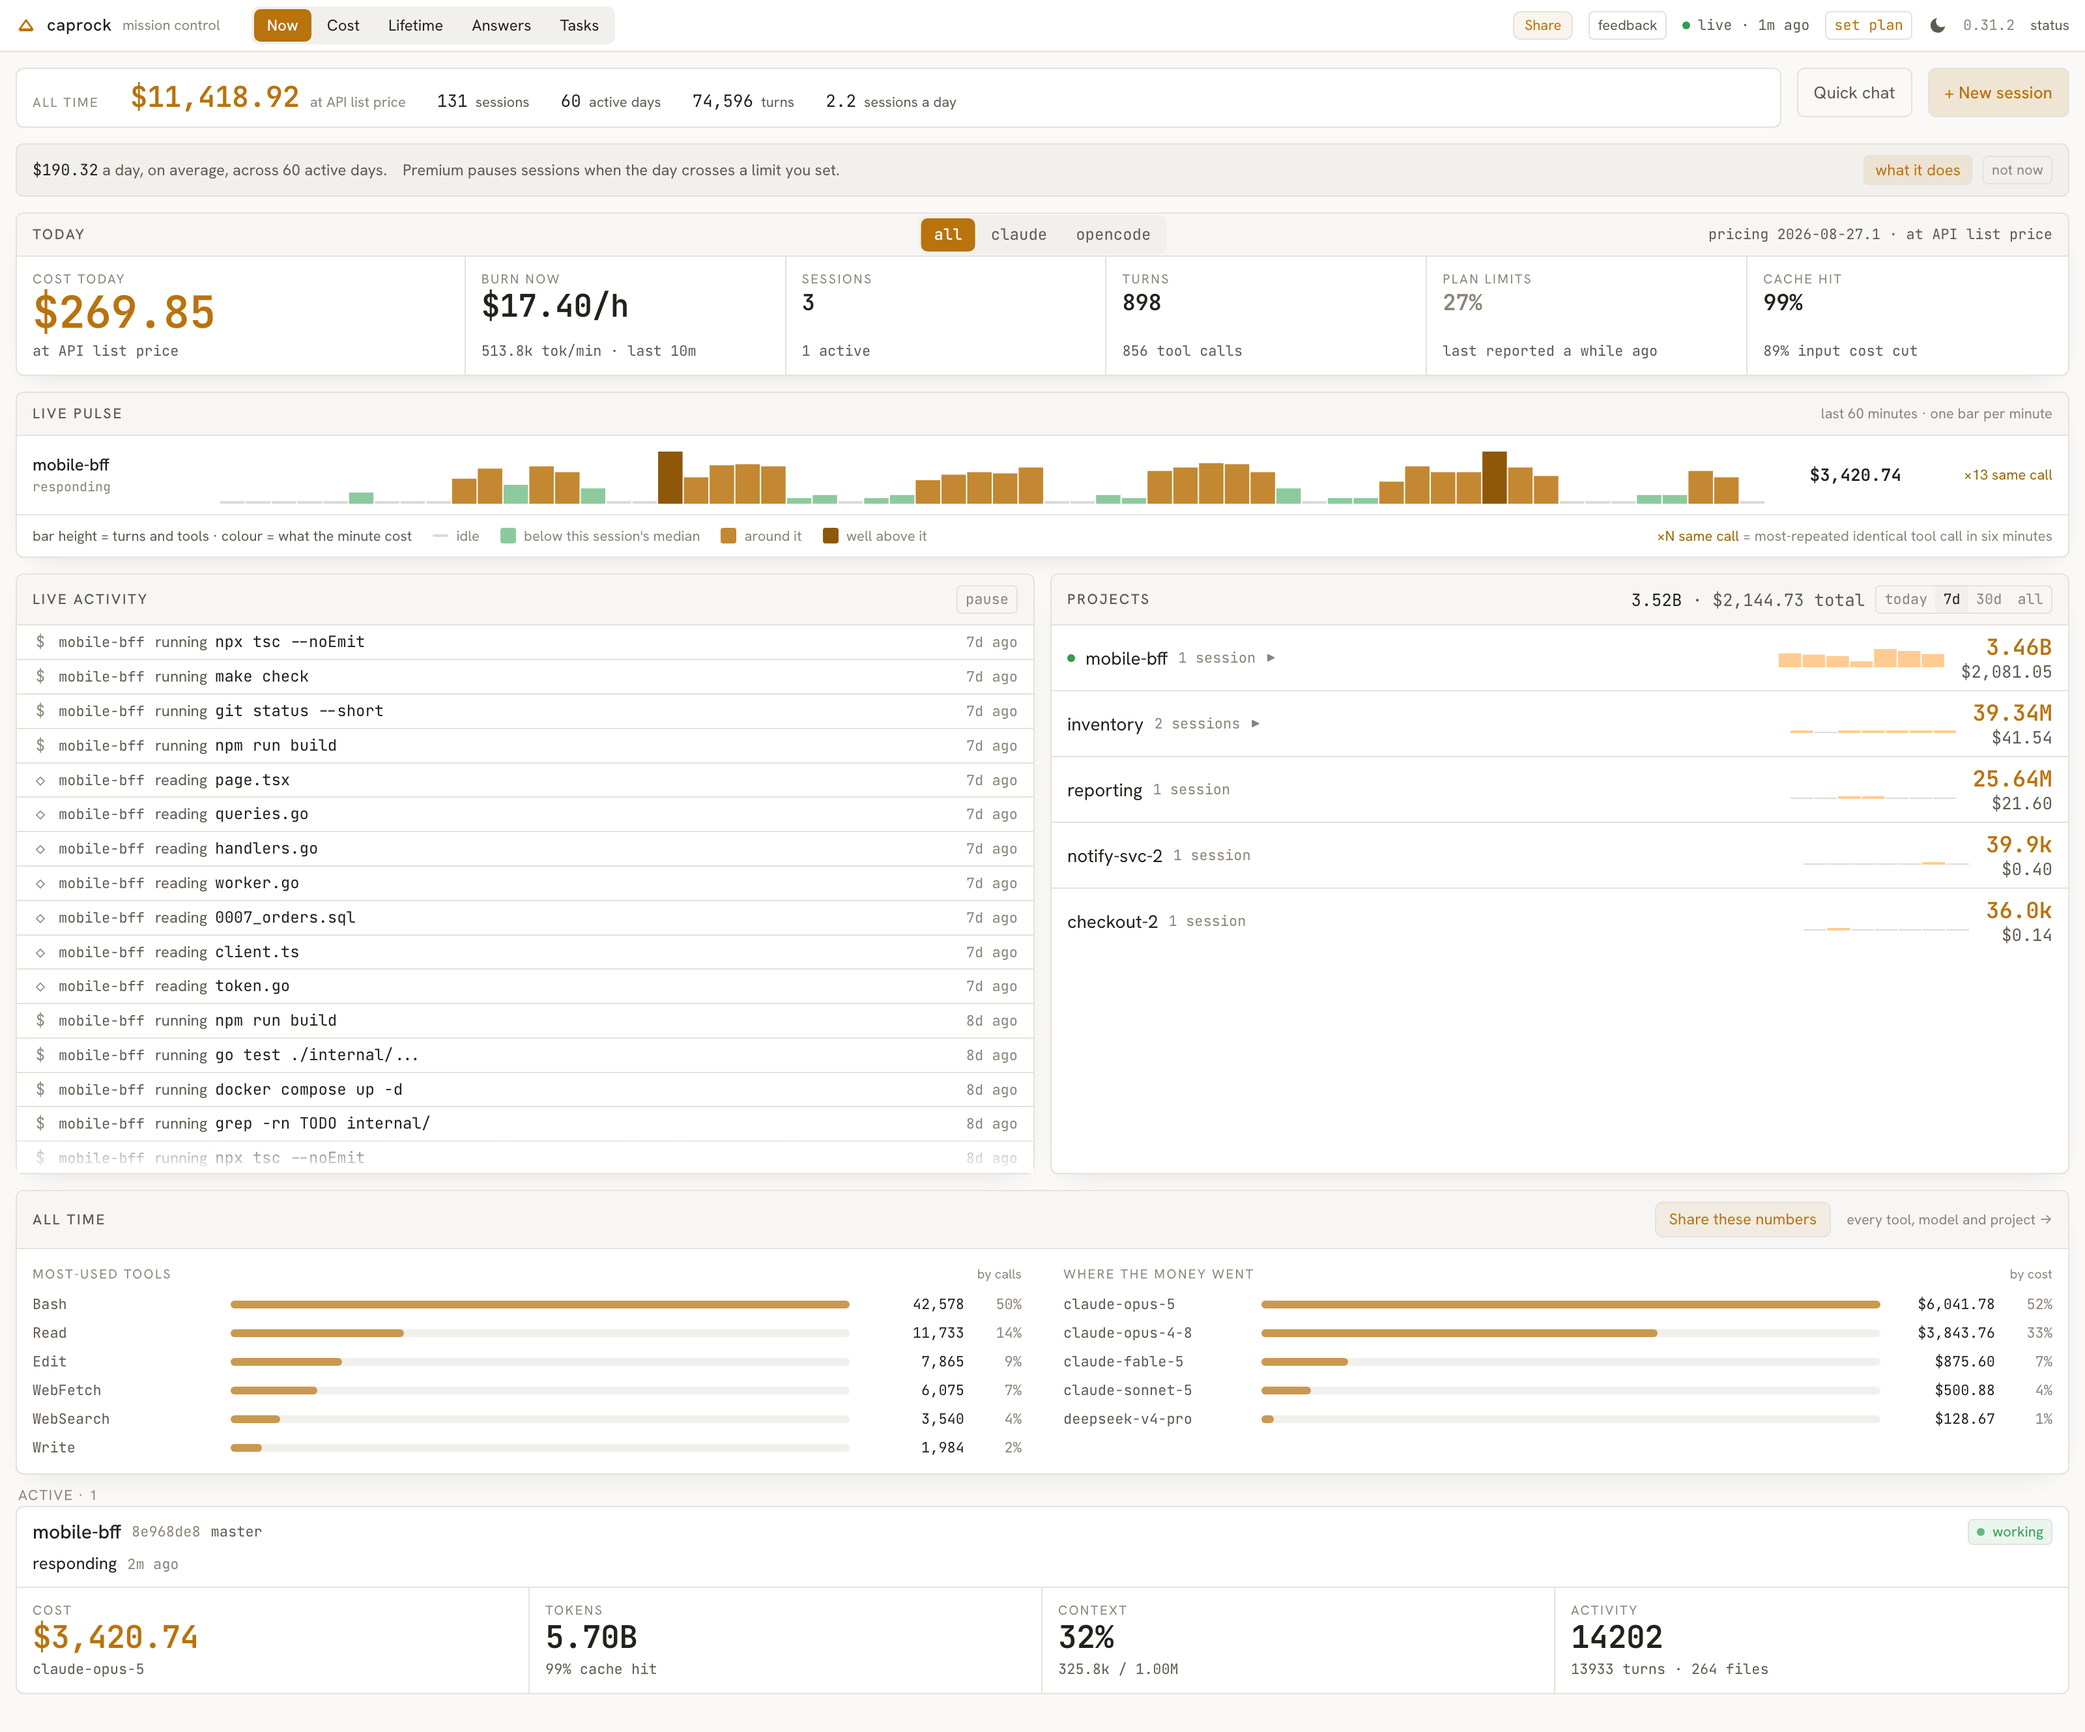
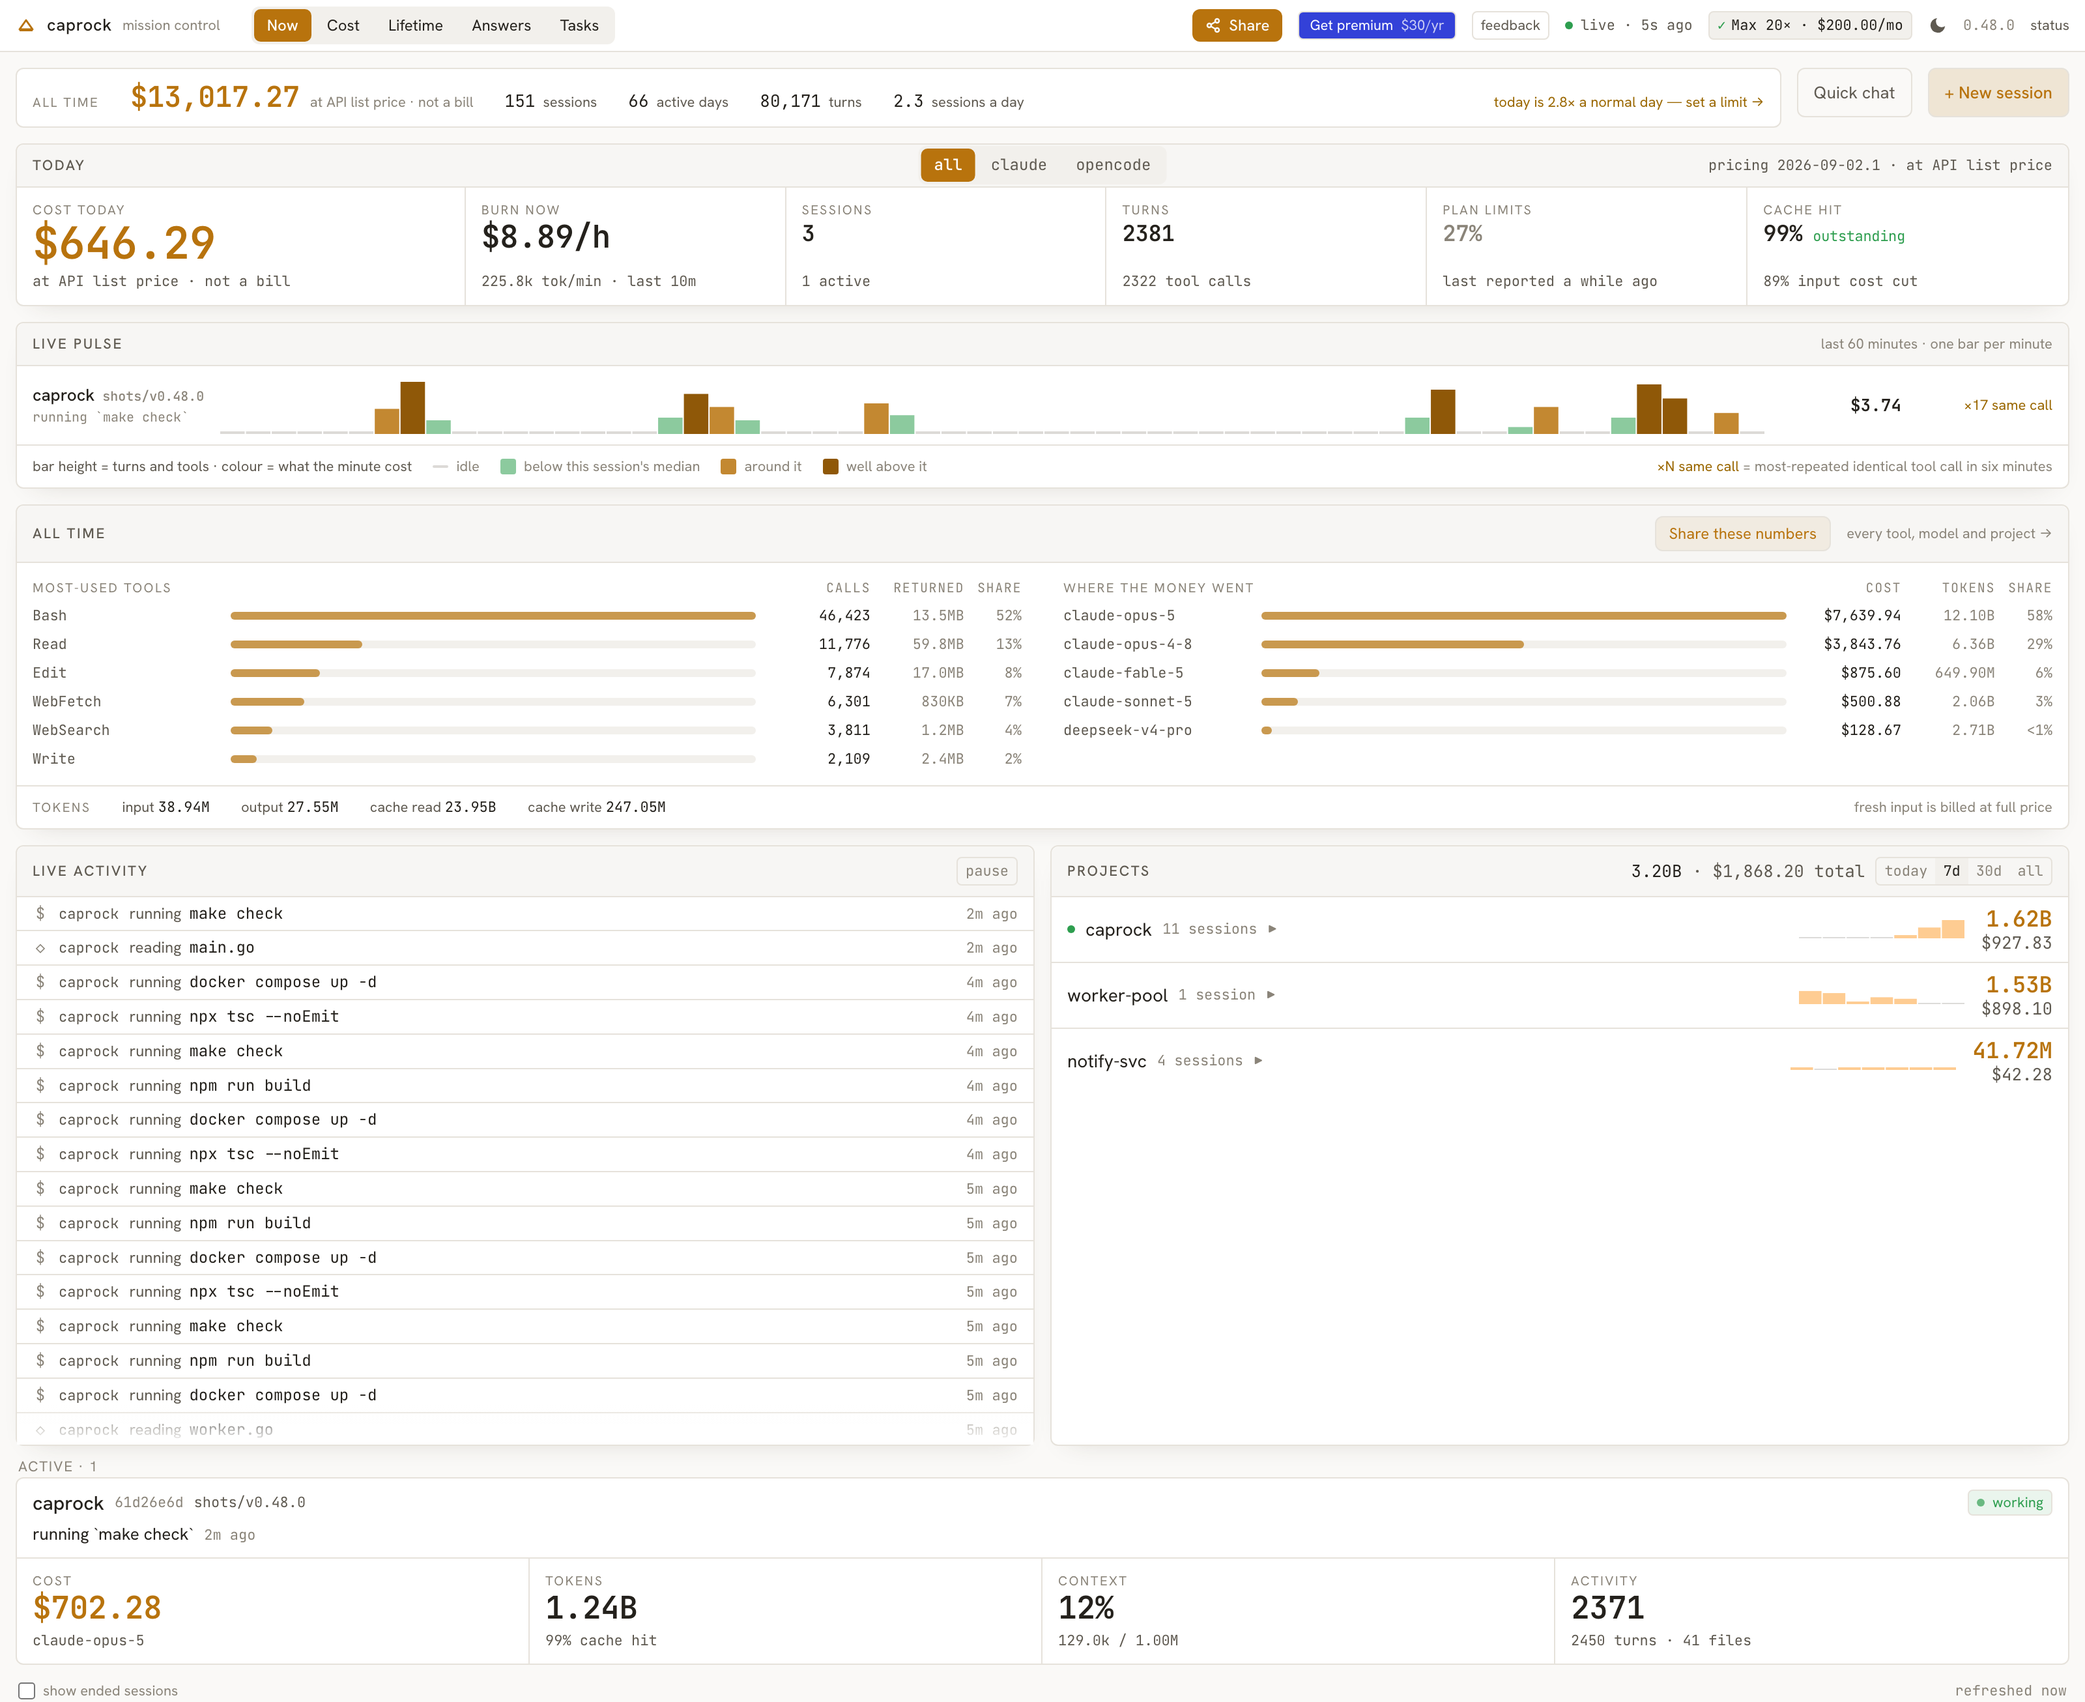
docs(shots): retake every screenshot, and fix three ways they lied
The screens changed this release — the all-time breakdown moved under the live
pulse, five tables gained column headings, and the tool table gained a figure
for how much each tool hands back — so every screenshot in the README and on
the site showed a product that no longer exists. The feature crops were older
still, from 26 August, and two of the four are the panel that changed most.

Retaking them surfaced three faults in the capture itself, each of which had
been putting something untrue in front of readers:

**Both first-run banners were in every frame**, taking a sixth of the height
before a single figure appeared. The update banner had a dismissal, written
after the screen was already up — and the navigations that follow are hash
changes, which do not reload the document, so the flag was never read. Set
before the load that reads it, and set for the premium nudge too.

**"set plan" was lit in the header**, because the capture runs against a
throwaway data directory and the plan lives in config.json rather than the
database. The first thing a reader saw was an instruction to configure
something nobody had explained yet. Three plan fields are now copied by name —
never the whole file, which also holds the report bot token.

**The feature crops found nothing at all.** They waited a fixed 3.5s for a
panel; enough on a small database, silently not enough on a real one, and the
failure reads as a renamed panel rather than a slow screen. They wait for the
[…]

diff --git a/scripts/feature-shots.py b/scripts/feature-shots.py
@@ -89,9 +89,28 @@ def main():
         for theme in ("dark", "light"):
             for name, route, needle, _why in SHOTS:
                 rpc(ws, "Page.navigate", {"url": f"{BASE}/#/{route}"})
-                time.sleep(3.5)
+                # Wait for the panel rather than for the clock. A fixed pause
+                # was enough on a small database and silently was not on a real
+                # one: every shot failed with "no element matching", which
+                # reads like a renamed panel and is really a screen that had
+                # not finished fetching. Also put the first-run banners away,
+                # or they push the panel down and the clip lands on the strip
+                # above it.
+                evaluate(ws, """
+                  try {
+                    localStorage.setItem('caprock.update.dismissed', 'offer');
+                    const t = Date.now();
+                    localStorage.setItem('caprock-prompts', JSON.stringify({
+                      'premium-banner': t, 'premium-hint': t, 'share-month': t,
+                    }));
+                  } catch (e) {}
+                """)
                 evaluate(ws, f"localStorage.setItem('caprock-theme','{theme}');location.reload()")
-                time.sleep(3.5)
+                for _ in range(60):
+                    time.sleep(0.4)
+                    if evaluate(ws, f"document.body.innerText.includes({json.dumps(needle)})"):
+                        break
+                time.sleep(2.0)   # let the bars and numbers paint
 
                 # Find the panel whose heading matches, and take its box. The
                 # walk goes up to the panel container so the border and title
@@ -115,15 +134,18 @@ def main():
                     print(f"  !! {name}: no element matching {needle!r} on /{route}")
                     continue
 
-                pad = 12
+                # Asymmetric padding: 12px is right on three sides, but at the
+                # top it reached into the panel above and clipped a button in
+                # half, which reads as a broken screenshot rather than a crop.
+                pad, pad_top = 12, 2
                 shot = rpc(ws, "Page.captureScreenshot", {
                     "format": "png",
                     "captureBeyondViewport": True,
                     "clip": {
                         "x": max(0, box["x"] - pad),
-                        "y": max(0, box["y"] - pad),
+                        "y": max(0, box["y"] - pad_top),
                         "width": min(WIDTH, box["w"] + pad * 2),
-                        "height": box["h"] + pad * 2,
+                        "height": box["h"] + pad + pad_top,
                         "scale": 2,
                     },
                 })

diff --git a/scripts/shots.py b/scripts/shots.py
@@ -252,13 +252,39 @@ def main():
         ws = create_connection(ws_url, timeout=30)
         rpc(ws, "Page.enable"); rpc(ws, "Runtime.enable")
 
+        # Put the first-run prompts away before the first render, not after it.
+        #
+        # Both banners are answered from localStorage at mount, so writing the
+        # keys once the screen is up changes nothing that is already on it —
+        # and the navigations that follow are hash changes, which do not reload
+        # the document and so never re-read the flag. The result was two
+        # dismissable strips across the top of every capture, taking a sixth of
+        # the frame before a single figure appeared. Set the keys against the
+        # origin, then load the document once so they are read.
+        rpc(ws, "Page.navigate", {"url": f"{BASE}/#/now"})
+        time.sleep(1.5)
+        evaluate(ws, """
+          try {
+            localStorage.setItem('caprock.update.dismissed', 'offer');
+            const t = Date.now();
+            localStorage.setItem('caprock-prompts', JSON.stringify({
+              'premium-banner': t, 'premium-hint': t, 'share-month': t,
+            }));
+          } catch (e) {}
+        """)
+
         for theme in ("dark", "light"):
             for route, name in SHOTS:
+                # Navigating to the same document with a different hash does
+                # not reload it, and the dismissal flags above are only read as
+                # the document boots. Go by way of about:blank so each capture
+                # is a real load *of its own route* — Page.reload would reload
+                # the document at its default route and lose the hash, which
+                # silently made every shot the Now screen.
+                rpc(ws, "Page.navigate", {"url": "about:blank"})
+                time.sleep(0.3)
                 rpc(ws, "Page.navigate", {"url": f"{BASE}/#/{route}"})
                 time.sleep(1.5)
-                # Dismiss the update banner: a first-run prompt, not a feature,
-                # and it pushes the dashboard down in every capture.
-                evaluate(ws, "try{localStorage.setItem('caprock.update.dismissed','offer')}catch(e){}")
                 # Toggle to the theme we want by clicking the control, which is
                 # what a person does. Writing to storage only takes effect on
                 # the next document load, and a hash navigation is not one.
